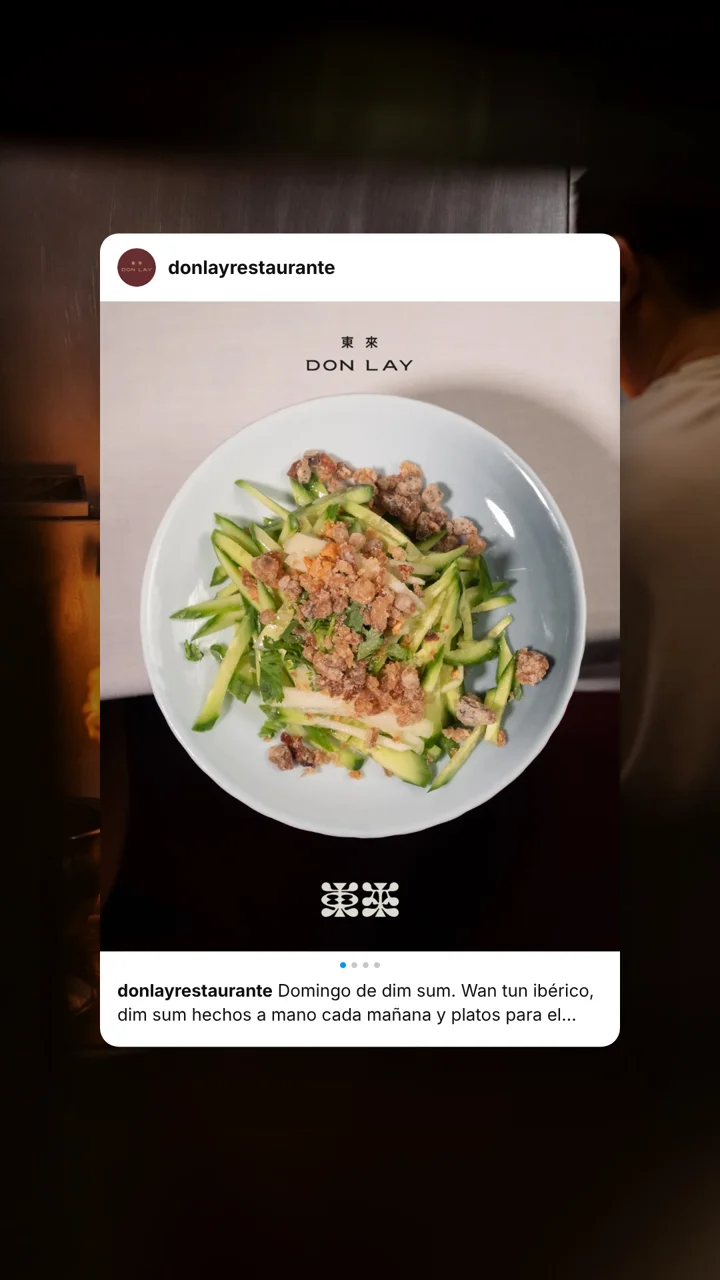
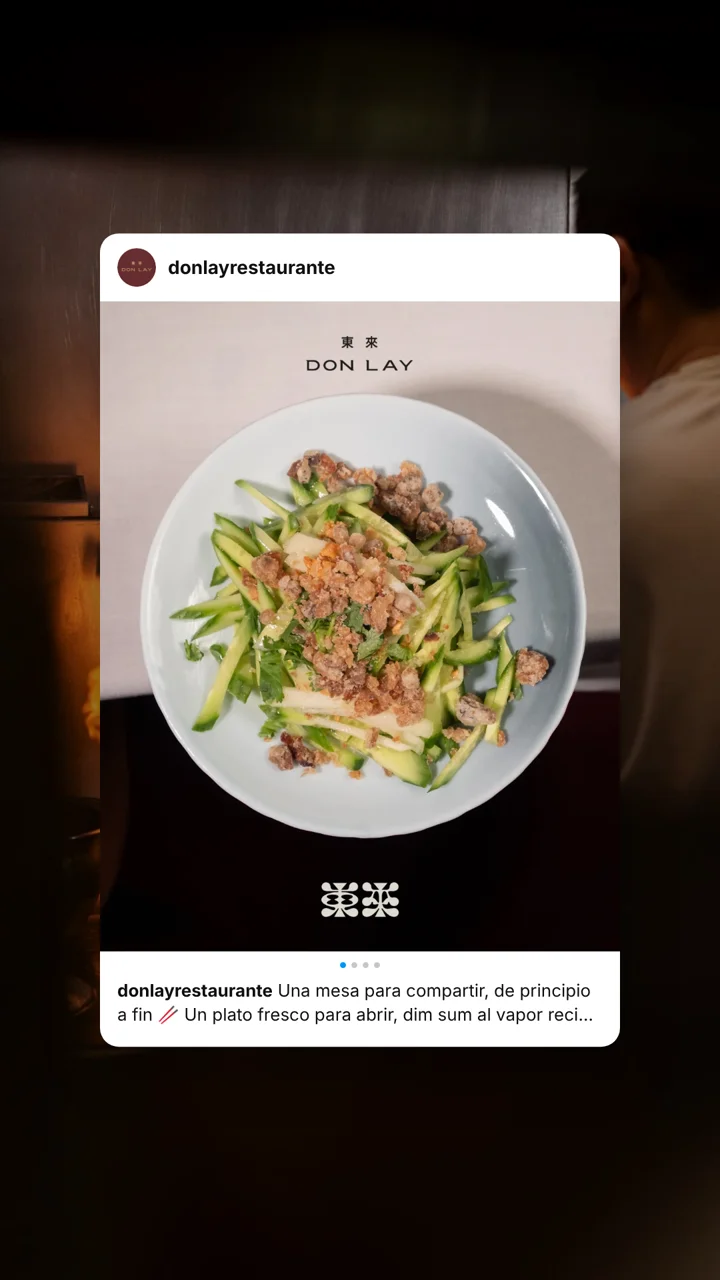
Don Lay noviembre: copy del domingo 22 coherente con las fotos del carrusel
Claude-Session: https://claude.ai/code/session_01JZ4qrDBJDBfAgLjm6moZsY

Changed region(s): [[0.1528, 0.75, 0.825, 0.8125]]

diff --git a/app/pitch/donlay-calendario/noviembre/diapos.ts b/app/pitch/donlay-calendario/noviembre/diapos.ts
@@ -117,7 +117,7 @@ export const DIAPOS: DiapoHtml[] = [
   {
     "id": "dom-22",
     "titulo": "Domingo 22",
-    "html": "<section id=\"dom-22\" style=\"background:#F6F0E8;color:#1D1D1B;font-family:'Inter DL', Inter, Arial, sans-serif;font-weight:400\">\n<p style=\"position:absolute;left:72px;top:40px;width:700px;font-family:'Inter DL', Inter, Arial, sans-serif;font-weight:400;font-size:22px;line-height:1.2;color:#1D1D1B\">Don Lay · Calendario de publicaciones</p><img src=\"/pitch/donlay-calendario/icono-rojo.svg\" alt=\"\" style=\"position:absolute;left:921px;top:36px;width:78px;height:35px;object-fit:contain\"><p style=\"position:absolute;right:72px;top:40px;width:700px;text-align:right;font-family:'Inter DL', Inter, Arial, sans-serif;font-weight:400;font-size:22px;line-height:1.2;color:#1D1D1B\">Noviembre 2026</p><div style=\"position:absolute;left:72px;right:72px;top:96px;height:1px;background:rgba(29,29,27,0.22)\"></div><div style=\"position:absolute;left:72px;top:150px;width:720px;display:flex;flex-direction:column;gap:26px\"><p style=\"font-size:22px;letter-spacing:4px;text-transform:uppercase;color:rgba(29,29,27,0.65)\">@donlayrestaurante</p><h2 style=\"font-family:'Self Modern DL', Georgia, serif;font-weight:700;font-size:88px;line-height:0.95\">Domingo 22</h2><p style=\"font-family:'Self Modern DL', Georgia, serif;font-style:italic;font-size:32px;line-height:1.2;color:#79242F\">domingo 22 de noviembre de 2026</p><div style=\"display:flex;flex-direction:row;gap:12px;flex-wrap:wrap\"><p style=\"font-size:22px;letter-spacing:2px;text-transform:uppercase;background:#1D1D1B;color:#F6F0E8;padding:12px 22px\">Carrusel de Instagram</p></div><div style=\"display:flex;flex-direction:column;gap:10px;background:#FFFFFF;padding:22px 28px;width:700px\"><p style=\"font-family:'Inter DL', Inter, Arial, sans-serif;font-size:16px;letter-spacing:3px;text-transform:uppercase;color:#79242F\">Copy</p><p style=\"font-family:'Inter DL', Inter, Arial, sans-serif;font-size:18px;line-height:1.4;color:#1D1D1B\">Domingo de dim sum.<br><br>Wan tun ibérico, dim sum hechos a mano cada mañana y platos para el centro de la mesa. La cocina cantonesa se disfruta mejor compartida.<br><br>Cocina ininterrumpida de 12:30h a 00:00h, de viernes a domingo y festivos.<br><br>📍 Castelló, 117 (Barrio de Salamanca, Madrid)<br>🥢 Reservas a través del enlace en nuestra bio.<br><br>#DonLay #DimSum #AltaCocinaCantonesa #DomingosEnMadrid #barriodesalamanca</p></div><p style=\"font-size:24px;font-weight:600;letter-spacing:3px;background:#1D1D1B;color:#F6F0E8;padding:24px 36px;width:480px;text-align:center\"><a data-drive=\"dom-22\" href=\"https://drive.google.com/drive/folders/1WRgZFhQ2v3TQujnD6L1SRXsmml01VLfv\" target=\"_blank\" rel=\"noopener noreferrer\">VER FOTOS EN DRIVE →</a></p></div><p style=\"position:absolute;right:72px;bottom:44px;width:200px;text-align:right;font-size:22px;line-height:1.2;color:rgba(29,29,27,0.65)\">22</p><p style=\"position:absolute;left:840px;top:128px;width:480px;font-family:'Inter DL', Inter, Arial, sans-serif;font-size:18px;letter-spacing:3px;text-transform:uppercase;color:rgba(29,29,27,0.6)\">Carrusel</p><div style=\"position:absolute;left:840px;top:170px;width:480px;background:#FFFFFF;box-shadow:0 24px 60px rgba(29,29,27,0.18);display:flex;flex-direction:column\"><div style=\"height:60px;display:flex;flex-direction:row;align-items:center;gap:12px;padding:0 16px\"><img src=\"/pitch/donlay-calendario/ig-avatar.png\" alt=\"\" style=\"width:36px;height:36px;border-radius:256px\"><p style=\"font-family:'Inter DL', Inter, Arial, sans-serif;font-weight:600;font-size:17px;color:#1D1D1B\">donlayrestaurante</p></div><div data-slot=\"dom-22\" data-tipo=\"carrusel\" style=\"position:relative;overflow:hidden;width:480px;height:600px;background:#1D1D1B;color:#F6F0E8;display:flex;flex-direction:column;justify-content:center;align-items:center;gap:24px\"><img src=\"/pitch/donlay-calendario/logo-beige.svg\" alt=\"Don Lay\" style=\"width:280px;height:90px;object-fit:contain\"><p style=\"font-family:'Inter DL', Inter, Arial, sans-serif;font-size:20px;letter-spacing:3px;text-transform:uppercase\">Carrusel</p></div><div style=\"height:54px;display:flex;flex-direction:row;align-items:center;gap:18px;padding:0 16px\"><svg viewBox=\"0 0 24 24\" style=\"width:26px;height:26px;color:#1D1D1B\" aria-hidden=\"true\"><path d=\"M12 21s-7.5-4.6-9.5-9.2C1.2 8.6 3.2 5 6.6 5c2 0 3.4 1.1 4.4 2.6C12 6.1 13.4 5 15.4 5c3.4 0 5.4 3.6 4.1 6.8C19.5 16.4 12 21 12 21z\" fill=\"none\" stroke=\"currentColor\" stroke-width=\"2\" stroke-linejoin=\"round\"/></svg><svg viewBox=\"0 0 24 24\" style=\"width:26px;height:26px;color:#1D1D1B\" aria-hidden=\"true\"><path d=\"M21 11.5a8.5 8.5 0 0 1-12.6 7.4L3 20.5l1.6-5A8.5 8.5 0 1 1 21 11.5z\" fill=\"none\" stroke=\"currentColor\" stroke-width=\"2\" stroke-linejoin=\"round\"/></svg><svg viewBox=\"0 0 24 24\" style=\"width:26px;height:26px;color:#1D1D1B\" aria-hidden=\"true\"><path d=\"M22 3L10 14M22 3l-7 18-4-8-8-4 19-6z\" fill=\"none\" stroke=\"currentColor\" stroke-width=\"2\" stroke-linejoin=\"round\"/></svg><div style=\"flex:1\"></div><svg viewBox=\"0 0 24 24\" style=\"width:26px;height:26px;color:#1D1D1B\" aria-hidden=\"true\"><path d=\"M6 3h12v18l-6-5-6 5z\" fill=\"none\" stroke=\"currentColor\" stroke-width=\"2\" stroke-linejoin=\"round\"/></svg></div></div><p style=\"position:absolute;left:1420px;top:128px;width:480px;font-family:'Inter DL', Inter, Arial, sans-serif;font-size:18px;letter-spacing:3px;text-transform:uppercase;color:rgba(29,29,27,0.6)\">Stories del día</p><div data-slot=\"dom-22-stories\" data-tipo=\"story\" style=\"position:absolute;overflow:hidden;left:1420px;top:170px;width:340px;height:604px;border-radius:24px;background:#1D1D1B;color:#F6F0E8;display:flex;flex-direction:column;justify-content:center;align-items:center;gap:24px;box-shadow:0 24px 60px rgba(29,29,27,0.25)\"><img src=\"/pitch/donlay-calendario/logo-beige.svg\" alt=\"Don Lay\" style=\"width:200px;height:64px;object-fit:contain\"><p style=\"font-family:'Inter DL', Inter, Arial, sans-serif;font-size:18px;letter-spacing:3px;text-transform:uppercase\">Stories</p></div>\n</section>"
+    "html": "<section id=\"dom-22\" style=\"background:#F6F0E8;color:#1D1D1B;font-family:'Inter DL', Inter, Arial, sans-serif;font-weight:400\">\n<p style=\"position:absolute;left:72px;top:40px;width:700px;font-family:'Inter DL', Inter, Arial, sans-serif;font-weight:400;font-size:22px;line-height:1.2;color:#1D1D1B\">Don Lay · Calendario de publicaciones</p><img src=\"/pitch/donlay-calendario/icono-rojo.svg\" alt=\"\" style=\"position:absolute;left:921px;top:36px;width:78px;height:35px;object-fit:contain\"><p style=\"position:absolute;right:72px;top:40px;width:700px;text-align:right;font-family:'Inter DL', Inter, Arial, sans-serif;font-weight:400;font-size:22px;line-height:1.2;color:#1D1D1B\">Noviembre 2026</p><div style=\"position:absolute;left:72px;right:72px;top:96px;height:1px;background:rgba(29,29,27,0.22)\"></div><div style=\"position:absolute;left:72px;top:150px;width:720px;display:flex;flex-direction:column;gap:26px\"><p style=\"font-size:22px;letter-spacing:4px;text-transform:uppercase;color:rgba(29,29,27,0.65)\">@donlayrestaurante</p><h2 style=\"font-family:'Self Modern DL', Georgia, serif;font-weight:700;font-size:88px;line-height:0.95\">Domingo 22</h2><p style=\"font-family:'Self Modern DL', Georgia, serif;font-style:italic;font-size:32px;line-height:1.2;color:#79242F\">domingo 22 de noviembre de 2026</p><div style=\"display:flex;flex-direction:row;gap:12px;flex-wrap:wrap\"><p style=\"font-size:22px;letter-spacing:2px;text-transform:uppercase;background:#1D1D1B;color:#F6F0E8;padding:12px 22px\">Carrusel de Instagram</p></div><div style=\"display:flex;flex-direction:column;gap:10px;background:#FFFFFF;padding:22px 28px;width:700px\"><p style=\"font-family:'Inter DL', Inter, Arial, sans-serif;font-size:16px;letter-spacing:3px;text-transform:uppercase;color:#79242F\">Copy</p><p style=\"font-family:'Inter DL', Inter, Arial, sans-serif;font-size:18px;line-height:1.4;color:#1D1D1B\">Una mesa para compartir, de principio a fin 🥢<br><br>Un plato fresco para abrir, dim sum al vapor recién salido de la cesta, carne con guindilla y nuestro wan tun ibérico. La cocina cantonesa se disfruta mejor en el centro de la mesa.<br><br>Cocina ininterrumpida de 12:30h a 00:00h, de viernes a domingo y festivos.<br><br>📍 Castelló, 117 (Barrio de Salamanca, Madrid)<br>🥢 Reservas a través del enlace en nuestra bio.<br><br>#DonLay #CocinaCantonesa #AltaCocinaCantonesa #DimSum #ParaCompartir #DomingosEnMadrid #RestaurantesMadrid #BarrioDeSalamanca</p></div><p style=\"font-size:24px;font-weight:600;letter-spacing:3px;background:#1D1D1B;color:#F6F0E8;padding:24px 36px;width:480px;text-align:center\"><a data-drive=\"dom-22\" href=\"https://drive.google.com/drive/folders/1WRgZFhQ2v3TQujnD6L1SRXsmml01VLfv\" target=\"_blank\" rel=\"noopener noreferrer\">VER FOTOS EN DRIVE →</a></p></div><p style=\"position:absolute;right:72px;bottom:44px;width:200px;text-align:right;font-size:22px;line-height:1.2;color:rgba(29,29,27,0.65)\">22</p><p style=\"position:absolute;left:840px;top:128px;width:480px;font-family:'Inter DL', Inter, Arial, sans-serif;font-size:18px;letter-spacing:3px;text-transform:uppercase;color:rgba(29,29,27,0.6)\">Carrusel</p><div style=\"position:absolute;left:840px;top:170px;width:480px;background:#FFFFFF;box-shadow:0 24px 60px rgba(29,29,27,0.18);display:flex;flex-direction:column\"><div style=\"height:60px;display:flex;flex-direction:row;align-items:center;gap:12px;padding:0 16px\"><img src=\"/pitch/donlay-calendario/ig-avatar.png\" alt=\"\" style=\"width:36px;height:36px;border-radius:256px\"><p style=\"font-family:'Inter DL', Inter, Arial, sans-serif;font-weight:600;font-size:17px;color:#1D1D1B\">donlayrestaurante</p></div><div data-slot=\"dom-22\" data-tipo=\"carrusel\" style=\"position:relative;overflow:hidden;width:480px;height:600px;background:#1D1D1B;color:#F6F0E8;display:flex;flex-direction:column;justify-content:center;align-items:center;gap:24px\"><img src=\"/pitch/donlay-calendario/logo-beige.svg\" alt=\"Don Lay\" style=\"width:280px;height:90px;object-fit:contain\"><p style=\"font-family:'Inter DL', Inter, Arial, sans-serif;font-size:20px;letter-spacing:3px;text-transform:uppercase\">Carrusel</p></div><div style=\"height:54px;display:flex;flex-direction:row;align-items:center;gap:18px;padding:0 16px\"><svg viewBox=\"0 0 24 24\" style=\"width:26px;height:26px;color:#1D1D1B\" aria-hidden=\"true\"><path d=\"M12 21s-7.5-4.6-9.5-9.2C1.2 8.6 3.2 5 6.6 5c2 0 3.4 1.1 4.4 2.6C12 6.1 13.4 5 15.4 5c3.4 0 5.4 3.6 4.1 6.8C19.5 16.4 12 21 12 21z\" fill=\"none\" stroke=\"currentColor\" stroke-width=\"2\" stroke-linejoin=\"round\"/></svg><svg viewBox=\"0 0 24 24\" style=\"width:26px;height:26px;color:#1D1D1B\" aria-hidden=\"true\"><path d=\"M21 11.5a8.5 8.5 0 0 1-12.6 7.4L3 20.5l1.6-5A8.5 8.5 0 1 1 21 11.5z\" fill=\"none\" stroke=\"currentColor\" stroke-width=\"2\" stroke-linejoin=\"round\"/></svg><svg viewBox=\"0 0 24 24\" style=\"width:26px;height:26px;color:#1D1D1B\" aria-hidden=\"true\"><path d=\"M22 3L10 14M22 3l-7 18-4-8-8-4 19-6z\" fill=\"none\" stroke=\"currentColor\" stroke-width=\"2\" stroke-linejoin=\"round\"/></svg><div style=\"flex:1\"></div><svg viewBox=\"0 0 24 24\" style=\"width:26px;height:26px;color:#1D1D1B\" aria-hidden=\"true\"><path d=\"M6 3h12v18l-6-5-6 5z\" fill=\"none\" stroke=\"currentColor\" stroke-width=\"2\" stroke-linejoin=\"round\"/></svg></div></div><p style=\"position:absolute;left:1420px;top:128px;width:480px;font-family:'Inter DL', Inter, Arial, sans-serif;font-size:18px;letter-spacing:3px;text-transform:uppercase;color:rgba(29,29,27,0.6)\">Stories del día</p><div data-slot=\"dom-22-stories\" data-tipo=\"story\" style=\"position:absolute;overflow:hidden;left:1420px;top:170px;width:340px;height:604px;border-radius:24px;background:#1D1D1B;color:#F6F0E8;display:flex;flex-direction:column;justify-content:center;align-items:center;gap:24px;box-shadow:0 24px 60px rgba(29,29,27,0.25)\"><img src=\"/pitch/donlay-calendario/logo-beige.svg\" alt=\"Don Lay\" style=\"width:200px;height:64px;object-fit:contain\"><p style=\"font-family:'Inter DL', Inter, Arial, sans-serif;font-size:18px;letter-spacing:3px;text-transform:uppercase\">Stories</p></div>\n</section>"
   },
   {
     "id": "lun-23",
